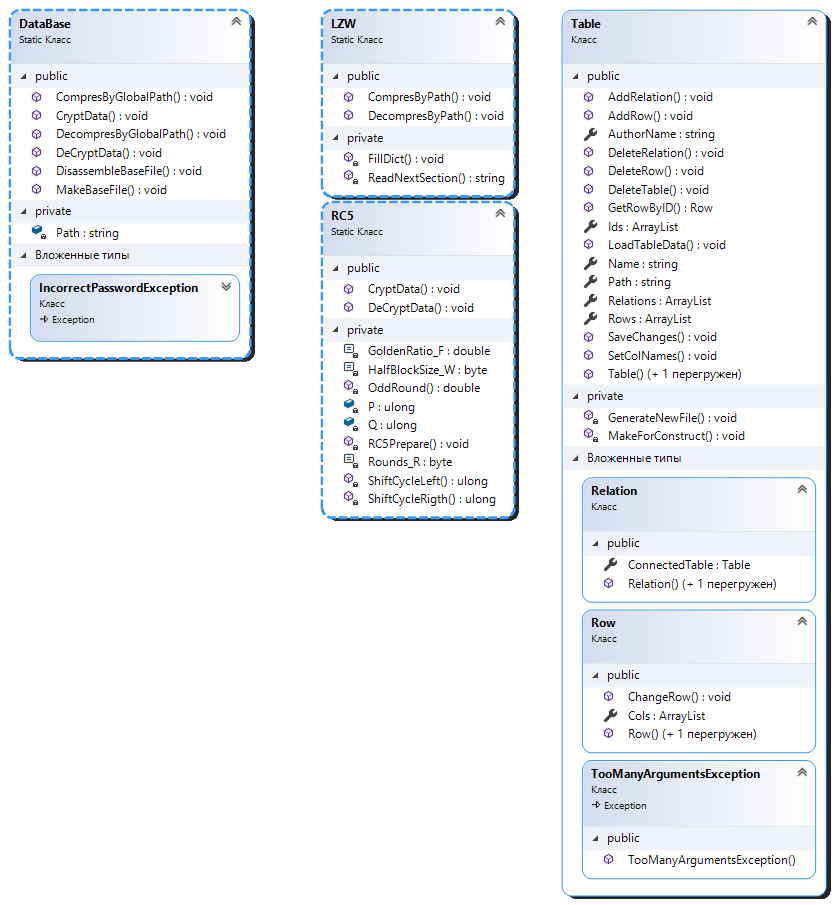
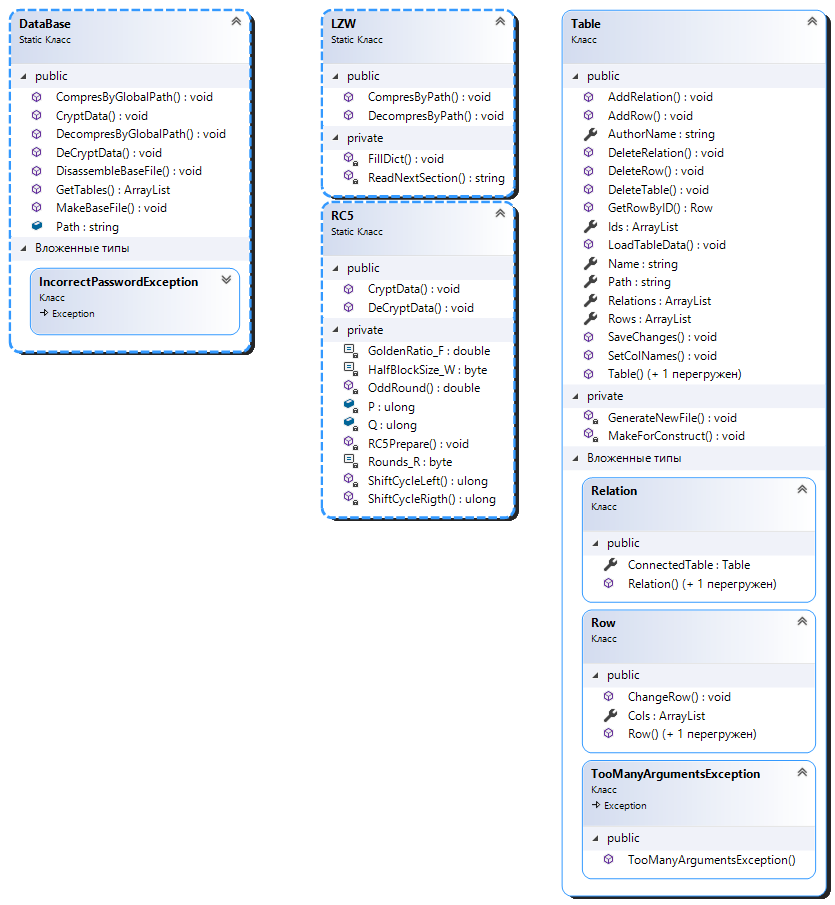
Fixes

Changed region(s): [[0.0, 0.1856, 0.3114, 0.4022]]

diff --git a/BDB/BDB/DataBase.cs b/BDB/BDB/DataBase.cs
@@ -24,15 +24,18 @@ namespace BDB
         /// <summary>
         /// Поле для хранения пути к файлу
         /// </summary>
-        static string Path = "";
+        static public string Path = "";
         /// <summary>
-        /// Собирает все таблицы в папке назначения в один файл
+        /// Собирает все таблицы в папке назначения в один файл!
         /// </summary>
         /// <param name="path">путь\\названиефайла.расширение</param>
         static public void MakeBaseFile(string path)
         {
             ArrayList tables = new ArrayList();
-            foreach (string file in Directory.GetFiles(Directory.GetCurrentDirectory(), "*.bdbt"))
+            string[] split = path.Split('\\');
+            string filepath = path;
+            filepath = split.Length != 1 ? filepath.Remove(filepath.Length - split[split.Length - 1].Length, split[split.Length - 1].Length) : Directory.GetCurrentDirectory();
+            foreach (string file in Directory.GetFiles(filepath, "*.bdbt"))
             {
                 Table tab = new Table();
                 tab.LoadTableData(file);
@@ -44,10 +47,17 @@ namespace BDB
             {
                 WriteIndented = true
             };
-            string json = JsonSerializer.Serialize(tables, jsonSerializer);
-            File.AppendAllText(path, json);
-            foreach (string file in Directory.GetFiles(Directory.GetCurrentDirectory(), "*.bdbt"))
-                File.Delete(file);
+            try
+            {
+                string json = JsonSerializer.Serialize(tables, jsonSerializer);
+                File.AppendAllText(path, json);
+                foreach (string file in Directory.GetFiles(filepath, "*.bdbt"))
+                    File.Delete(file);
+            }
+            catch
+            {
+                File.AppendAllText(path, "[]");
+            }
             Path = path;
         }
         /// <summary>
@@ -55,14 +65,21 @@ namespace BDB
         /// </summary>
         static public void DisassembleBaseFile()
         {
+            string[] split = Path.Split('\\');
+            string filepath = Path;
+            filepath = split.Length != 1 ? filepath.Remove(filepath.Length - split[split.Length - 1].Length, split[split.Length - 1].Length) : Directory.GetCurrentDirectory();
             string json = File.ReadAllText(Path);
             Table[] tables = new Table[0];
-            tables = (Table[])JsonSerializer.Deserialize(json, tables.GetType());
-            foreach (string file in Directory.GetFiles(Directory.GetCurrentDirectory(), "*.bdbt"))
-                File.Delete(file);
-            foreach (Table table in tables)
-                table.SaveChanges();
-            File.Delete(Path);
+            try
+            {
+                tables = (Table[])JsonSerializer.Deserialize(json, tables.GetType());
+                foreach (string file in Directory.GetFiles(filepath, "*.bdbt"))
+                    File.Delete(file);
+                foreach (Table table in tables)
+                    table.SaveChanges();
+                File.Delete(Path);
+            }
+            catch { }
         }
         /// <summary>
         /// Шифрование данных, использует path
@@ -152,6 +169,24 @@ namespace BDB
         static public void DecompresByGlobalPath()
         {
             LZW.DecompresByPath(Path);
+        }
+        /// <summary>
+        /// Метод возвращает массив таблиц из директории в которой находился файл базы данных
+        /// </summary>
+        /// <returns>Массив таблиц</returns>
+        static public ArrayList GetTables()
+        {
+            ArrayList tables = new ArrayList();
+            string[] split = Path.Split('\\');
+            string filepath = Path;
+            filepath = split.Length != 1 ? filepath.Remove(filepath.Length - split[split.Length - 1].Length, split[split.Length - 1].Length) : Directory.GetCurrentDirectory();
+            foreach (string file in Directory.GetFiles(filepath, "*.bdbt"))
+            {
+                Table tab = new Table();
+                tab.LoadTableData(file);
+                tables.Add(tab);
+            }
+            return tables;
         }
     }
 }

diff --git a/BDB/BDB/Table.cs b/BDB/BDB/Table.cs
@@ -162,7 +162,7 @@ namespace BDB
         /// <summary>
         /// Функция генерации стандартного файла
         /// </summary>
-        private void GenerateNewFile()
+        private void GenerateNewFile() 
         {
             string[] Files = Directory.GetFiles(Directory.GetCurrentDirectory(), "Table*.bdbt");
             Name = "Table" + (Files.Length + 1);
@@ -244,6 +244,7 @@ namespace BDB
         {
             string ReadedJson = File.ReadAllText(FilePath);
             Table temp = (Table)JsonSerializer.Deserialize(ReadedJson, GetType());
+            AuthorName = temp.AuthorName;
             Name = temp.Name;
             Path = temp.Path;
             for (int i = 0; i < temp.Rows.Count; i++)

diff --git a/BDB/BDB/TestingClass.cs b/BDB/BDB/TestingClass.cs
@@ -21,6 +21,7 @@
             test.AddRow(Data);
             test.AddRow(Data);
             test.AddRow(Data);
+            test.AuthorName = "Govnok0d";
             test.SaveChanges();
             Table test1 = new Table("test1.bdbt");
             test1.SetColNames(Cols);
